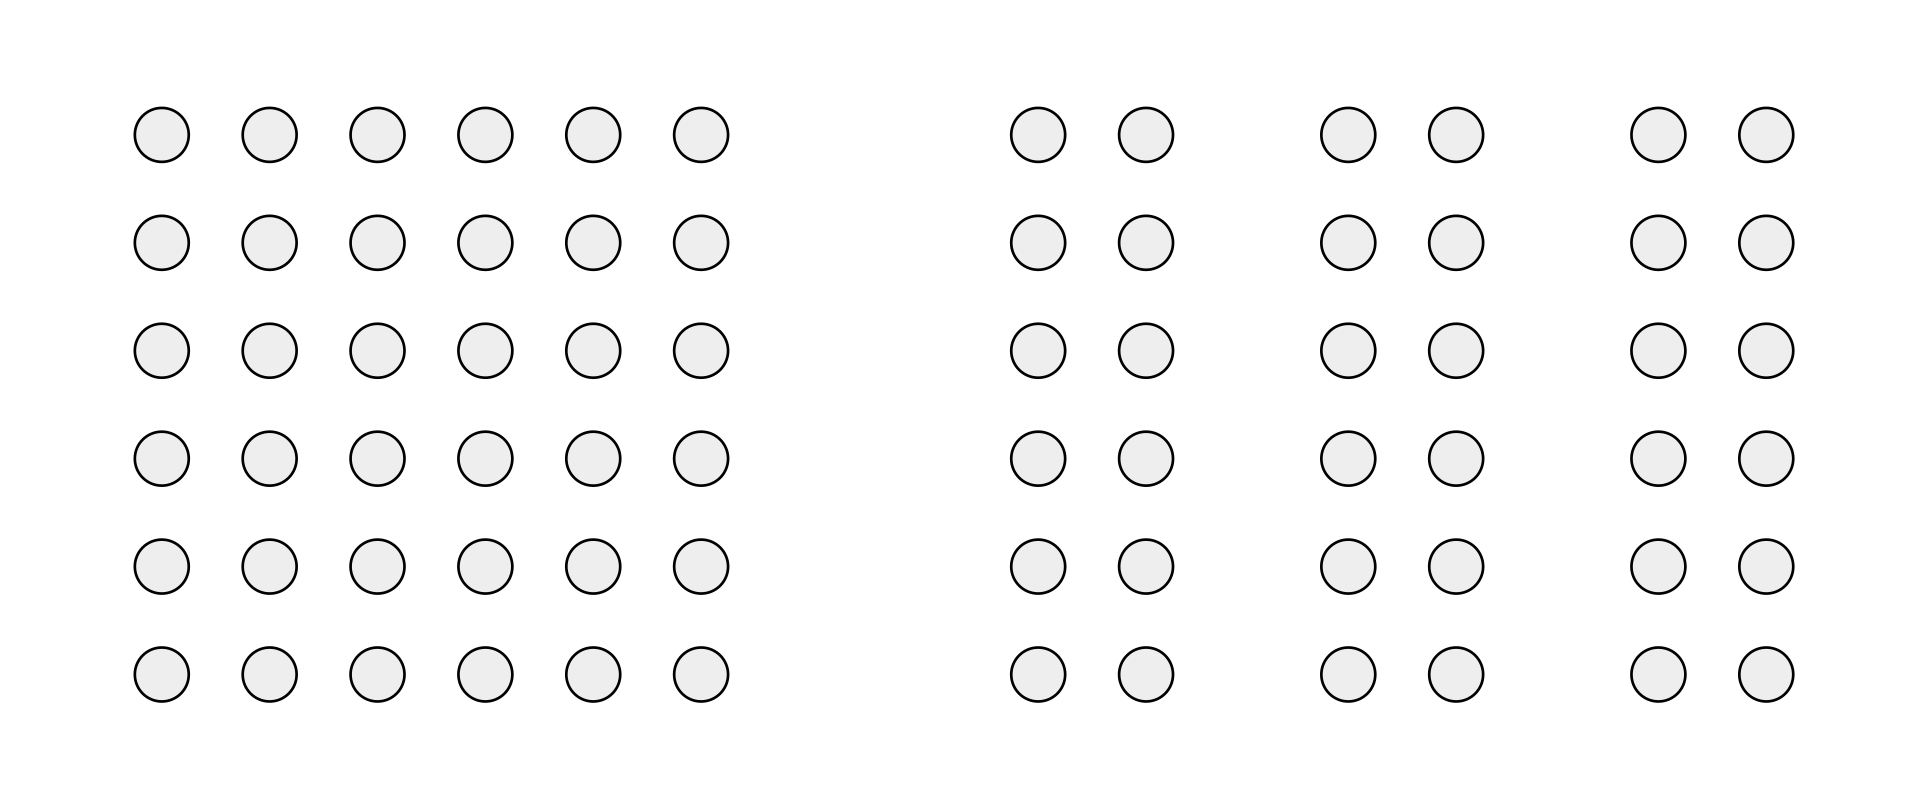
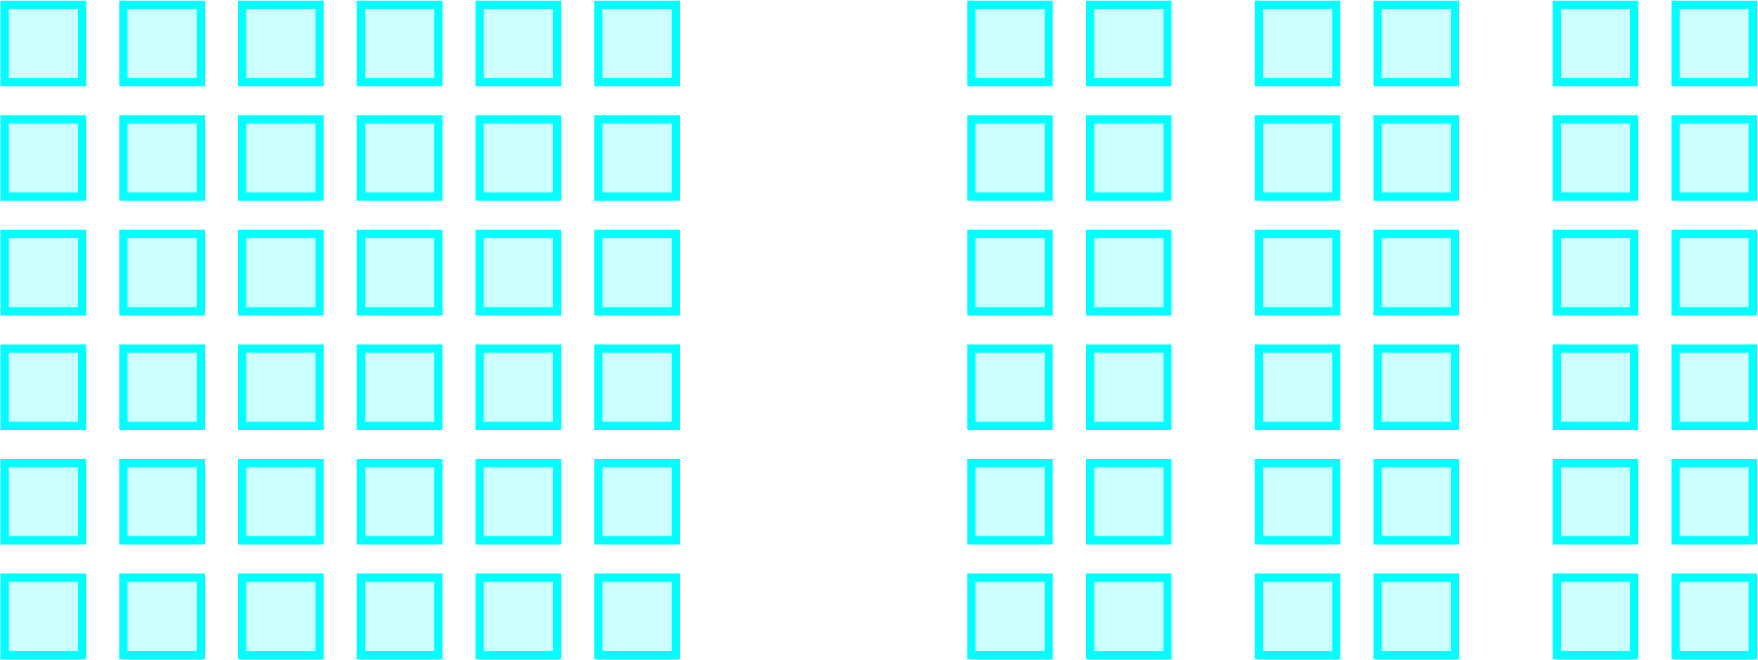
Remake 8.11 unit8_Gestalt_proximity

diff --git a/_units/08.md b/_units/08.md
@@ -118,11 +118,11 @@ We perceive the white dots as one group and the black dots as another group; thi
  {% include img-figure url="/MUTOR/assets/images/unit8_symmetry2.png" description="Principle of symmetry" width="400px" %}
 ## Proximity
 - elements that are close together are more likely to be grouped together.
-The dots that are closer together are perceived as being grouped together.
+The squares that are closer together are perceived as being grouped together.
 {% include img-figure url="/MUTOR/assets/images/unit8_Gestalt_proximity.png" description="Principle of proximity" %}
 ## Good continuation
 - we tend to perceive figures as being continuous.
- The red diagonal is perceived as one line instead of two, due to the principle of good continuation.
+ The pink diagonal is perceived as one line instead of two, due to the principle of good continuation.
 {% include img-figure url="/MUTOR/assets/images/unit8_goodcontinuation.png" description="Principle of good continuation" width="400px" %}
 ## Closure
 - we tend to see complete figures despite missing parts.
